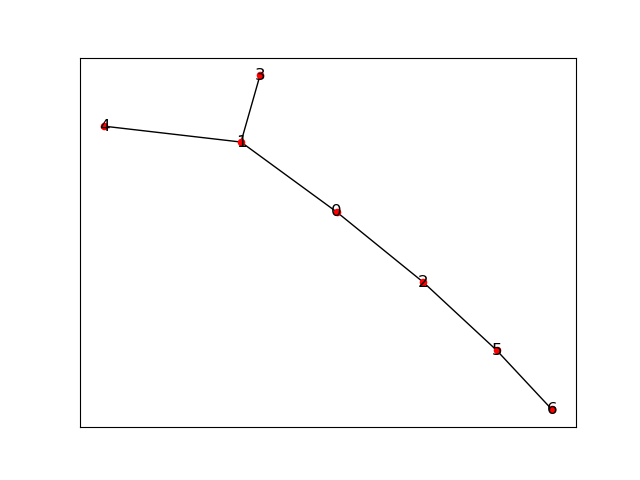
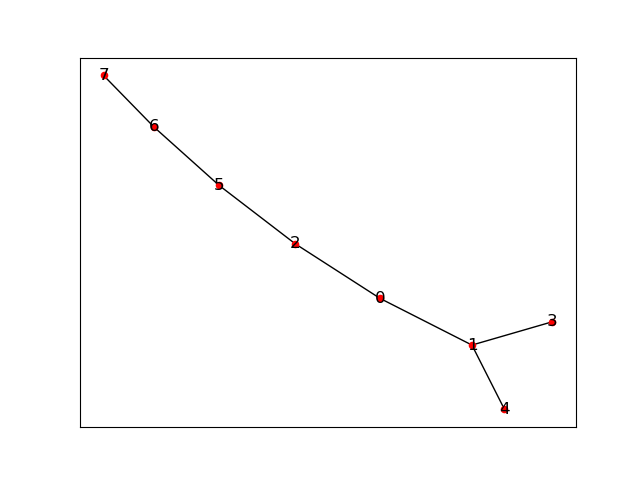
mutiple_observation

diff --git a/jarden_center/main_code/single-multiple-source/change_world/Conditional_experiment/single_source_detection/mutiple_observation_single_source.py b/jarden_center/main_code/single-multiple-source/change_world/Conditional_experiment/single_source_detection/mutiple_observation_single_source.py
@@ -9,7 +9,7 @@ class rumor_center:
     def __init__(self):
         print('谣言中心构建开始...')
 
-    def rumor_centrality_up(self, up_messages, who_infected, parent_node, current_node):
+    def rumor_centrality_up(self, up_messages, who_infected, parent_node, current_node,inter_set,union_set):
         # message_passing_up(up_messages, adjacency, root_node, root_node)
         print('往上传播')
         print('up_message',up_messages )
@@ -18,28 +18,28 @@ class rumor_center:
         print('current_node',current_node)
         print()
         if current_node == parent_node:
-            for child_node in who_infected[current_node]:
+            for child_node in who_infected[1][current_node]:   #只走共同的点
                 print('如果当前节点是源点，往下找孩子节点发消息')
-                up_messages = self.rumor_centrality_up(up_messages, who_infected, current_node, child_node)
+                up_messages = self.rumor_centrality_up(up_messages, who_infected, current_node, child_node,inter_set,union_set)
                 print('往上发的消息up_message', up_messages)
-        elif len(who_infected[current_node]) == 1:
+        elif len(who_infected[1][current_node]) == 1:
             print('这个点只跟某一个点相连的话，就是叶子节点。',current_node)
 
-            up_messages[parent_node][0] += 1
+            up_messages[parent_node][0][0] += 1
             print('up_message改变',up_messages)
-            up_messages[parent_node][1] = up_messages[parent_node][1] * up_messages[current_node][1]
+            up_messages[parent_node][1][0] = up_messages[parent_node][1][0] * up_messages[current_node][1][0]
             print('up_message改变', up_messages)
         # leave
         else:
             print('对于其实都是递归往上走的')
-            for child_node in who_infected[current_node]:
+            for child_node in who_infected[1][current_node]:
                 if child_node != parent_node:
-                    up_messages = self.rumor_centrality_up(up_messages, who_infected, current_node, child_node)
-                    up_messages[current_node][1] = up_messages[current_node][1] * up_messages[child_node][1]
+                    up_messages = self.rumor_centrality_up(up_messages, who_infected, current_node, child_node,inter_set,union_set)
+                    up_messages[current_node][2][0] = up_messages[current_node][2][0] * up_messages[child_node][2][0]
 
-            up_messages[parent_node][0] += up_messages[current_node][0]
+            up_messages[parent_node][0][0] += up_messages[current_node][0][0]
             print('往上传的消息改变。就是父节点', up_messages)
-            up_messages[current_node][1] = up_messages[current_node][0] * up_messages[current_node][1]
+            up_messages[current_node][1] = up_messages[current_node][0][0] * up_messages[current_node][2][0]
             print('往上传的消息改变当前节点收到孩子', up_messages)
         return up_messages
 
@@ -80,16 +80,28 @@ class rumor_center:
         return down_messages
 
     def rumor_centrality(self, who_infected):
-
         print('who_infected',who_infected)
         root_node = 2
         rumor_center = -1
         up_messages = []
-        for i in range(len(who_infected)):
-            up_messages.append([1, 1])
-        down_messages = [1] * len(who_infected)
+        A_set = [x for x in range(len(who_infected[0]))]
+        B_set = [x for x in range(len(who_infected[1]))]
+        print(A_set)
+        print(B_set)
+        max_len=max(len(A_set),len(B_set))
+        print('max_len',max_len)
+
+        intertion_set = set(A_set) & set(B_set)
+        print('intertion_set',intertion_set)
+        union_set = set(A_set) |  set(B_set)
+        print('union_set',union_set)
+
+        for i in range(max_len):
+            up_messages.append([[1, 1], [1, 0], [1]])
+
+        down_messages = [1] * max_len
         print('down_messages', down_messages)
-        up_message = self.rumor_centrality_up(up_messages, who_infected, root_node, root_node)
+        up_message = self.rumor_centrality_up(up_messages, who_infected, root_node, root_node,intertion_set,union_set)
         down_message = self.rumor_centrality_down(down_messages, up_message, who_infected, root_node, root_node)
         center = max(down_message)
         for i in range(len(down_messages)):
@@ -103,28 +115,49 @@ class rumor_center:
 
 if __name__ == '__main__':
     # creating a toy graph (tree)
-    adjacency = [[] for i in range(7)]
-    adjacency[0] = [1, 2]
-    adjacency[1] = [0, 3, 4]
-    adjacency[2] = [0, 5]
-    adjacency[3] = [1]
-    adjacency[4] = [1]
-    adjacency[5] = [2, 6]
-    # adjacency[6] = [2]
-    adjacency[6] = [5]
+    adjacency1 = [[] for i in range(7)]
+    adjacency1[0] = [1, 2]
+    adjacency1[1] = [0, 3, 4]
+    adjacency1[2] = [0, 5]
+    adjacency1[3] = [1]
+    adjacency1[4] = [1]
+    adjacency1[5] = [2, 6]
+    # adjacency[6] = [2,5]
+    adjacency1[6] = [5]
+
+    #多一个传播图，
+
+
+
+
+    adjacency2 = [[] for i in range(8)]
+    adjacency2[0] = [1, 2]
+    adjacency2[1] = [0, 3, 4]
+    adjacency2[2] = [0, 5]
+    adjacency2[3] = [1]
+    adjacency2[4] = [1]
+    adjacency2[5] = [2, 6]
+    # adjacency[6] = [2,5]
+    adjacency2[6] = [5,7]
+    adjacency2[7] = [6]
+
     # print(__name__)
     #这肯定是一个树，不然处理不了。构建成一颗树，然后处理吧。然后画图，然后再理解思路。
     G = nx.Graph()
-    for index in range(len(adjacency)):
-        for j  in adjacency[index]:
+    for index in range(len(adjacency2)):
+        for j  in adjacency2[index]:
             G.add_edge(index, j)
     print('number_of_G', G.number_of_nodes())
-
     nx.draw_networkx(G, pos=nx.spring_layout(G), node_size=20, node_color='red')
     plt.savefig('test.png')
-    plt.show()
+    # plt.show()
     plt.close()
 
+
+    adjacency_list = []
+
+    adjacency_list.append(adjacency1)
+    adjacency_list.append(adjacency2)
     rumor_center_object = rumor_center()
-    rumor_center, center = rumor_center_object.rumor_centrality(adjacency)
+    rumor_center, center = rumor_center_object.rumor_centrality(adjacency_list)
     print(rumor_center, center )

diff --git a/jarden_center/main_code/single-multiple-source/change_world/Conditional_experiment/single_source_detection/single_Source_detection.py b/jarden_center/main_code/single-multiple-source/change_world/Conditional_experiment/single_source_detection/single_Source_detection.py
@@ -354,7 +354,6 @@ class Single_source:
 
         print('rumor_center', rumor_center)
         print('center', center)
-
         return [infect_node[rumor_center]]
 
 
@@ -362,7 +361,7 @@ class Single_source:
     1 乔丹中心实现。
     '''
 
-    def jarden_center(self, infectG, subiG,source_true):
+    def jarden_center(self, infectG, subiG, source_true):
         # 将图构造成两个list，一个是感染点list，一个是感染和它的邻居点构造成的list
         infect_node = []
         infect_neighbour_list = []
@@ -477,6 +476,46 @@ class Single_source:
 
 
 
+    '''
+    多个独立观察图，然后进行联合单源定位。
+    '''
+
+    def mutiple_Observation(self, infectG, subInfectG, source_ture):
+        # 将图构造成两个list，一个是感染点list，一个是感染和它的邻居点构造成的list
+        infect_node = []
+        infect_neighbour_list = []
+        print(infectG.number_of_nodes())
+        random_node = random.choice(list(subiG.nodes()))
+        subinfectG = nx.bfs_tree(subiG, source=random_node)
+        # who_infected =  [[] for i in range(infectG.number_of_nodes())]
+        # 找出最大的id数目。
+        maxs = 0
+        for node_index in list(infectG.nodes):
+            if node_index > maxs:
+                maxs = node_index
+        print('maxs', maxs)
+        for node in list(subinfectG.nodes()):
+            infect_node.append(node)
+        who_infected = [[] for i in range(maxs + 1)]
+
+        i = 0
+        for node_temp in infect_node:
+            neighbour_list = list(nx.neighbors(subinfectG, node_temp))
+            neighbour_list_index = []
+            for neighbour in neighbour_list:
+                neighbour_list_index.append(infect_node.index(neighbour))
+            who_infected[i] = neighbour_list_index
+            i += 1
+
+        print('infect_node', infect_node)
+        print('who_infected', who_infected)
+        rumor_center_object = rumor_centrality.rumor_center()
+
+        rumor_center, center = rumor_center_object.rumor_centrality(who_infected)
+
+        print('rumor_center', rumor_center)
+        print('center', center)
+        return [infect_node[rumor_center]]
 
 
 

diff --git a/jarden_center/main_code/single-multiple-source/change_world/Conditional_experiment/single_source_detection/mutiple_observation_single_source_2.py b/jarden_center/main_code/single-multiple-source/change_world/Conditional_experiment/single_source_detection/mutiple_observation_single_source_2.py
@@ -95,7 +95,7 @@ class rumor_center:
         for i in range(len(down_messages)):
             if down_messages[i] == center:
                 rumor_center = i
-        return rumor_center, center
+        return rumor_center, center,up_messages,down_messages
 
 
 
@@ -112,6 +112,31 @@ if __name__ == '__main__':
     adjacency[5] = [2, 6]
     # adjacency[6] = [2]
     adjacency[6] = [5]
+
+
+
+
+
+
+
+
+
+
+
+    adjacency2 = [[] for i in range(8)]
+    adjacency2[0] = [1, 2]
+    adjacency2[1] = [0, 3, 4]
+    adjacency2[2] = [0, 5]
+    adjacency2[3] = [1]
+    adjacency2[4] = [1]
+    adjacency2[5] = [2, 6]
+    # adjacency[6] = [2,5]
+    adjacency2[6] = [5,7]
+    adjacency2[7] = [6]
+
+
+
+
     # print(__name__)
     #这肯定是一个树，不然处理不了。构建成一颗树，然后处理吧。然后画图，然后再理解思路。
     G = nx.Graph()
@@ -120,11 +145,35 @@ if __name__ == '__main__':
             G.add_edge(index, j)
     print('number_of_G', G.number_of_nodes())
 
+
+
+
     nx.draw_networkx(G, pos=nx.spring_layout(G), node_size=20, node_color='red')
     plt.savefig('test.png')
     plt.show()
     plt.close()
 
+    G = nx.Graph()
+    for index in range(len(adjacency2)):
+        for j in adjacency2[index]:
+            G.add_edge(index, j)
+    print('number_of_G', G.number_of_nodes())
+
+    nx.draw_networkx(G, pos=nx.spring_layout(G), node_size=20, node_color='red')
+    plt.savefig('test.png')
+    plt.show()
+    plt.close()
+
+
     rumor_center_object = rumor_center()
-    rumor_center, center = rumor_center_object.rumor_centrality(adjacency)
-    print(rumor_center, center )
+    rumor_center, center,up_messages,down_messages = rumor_center_object.rumor_centrality(adjacency)
+    rumor_center1, center1, up_messages1, down_messages1 = rumor_center_object.rumor_centrality(adjacency2)
+
+    print('up_message,第一个图',up_messages)
+    print('down_message,第二个图', down_messages)
+    print(rumor_center,  center)
+
+    print()
+    print('up_message,第2个图', up_messages1)
+    print('down_message,第2个图', down_messages1)
+    print(rumor_center1, center)

diff --git a/jarden_center/main_code/single-multiple-source/change_world/Conditional_experiment/single_source_detection/readme.md b/jarden_center/main_code/single-multiple-source/change_world/Conditional_experiment/single_source_detection/readme.md
@@ -12,6 +12,6 @@
 | 中介中心性  |333 | 3.85| 6  
 | 谣言中心性  |333 | 5.05(这里是随机选择某个点作为源点构成BFS树如果是真实源点BFS，效果更好1.7)| 7.4   
 | 乔丹中心性  |333 | 5.6(这里是随机选择某个点作为源点构成BFS树,如果是真实源点构建BFS，效果更好1.95)| 7.35  
-| 覆盖率找一个点进行bfs树构建，然后单源定位  |333 | 2.5|4.0
+| 覆盖率找一个点进行bfs树构建，然后单源定位（谣言中心）  |333 | 2.5|4.0
 | 边界点统计  |333 | 34324|234234（在树上，我们得找出时间序列或者什么的。）
 
